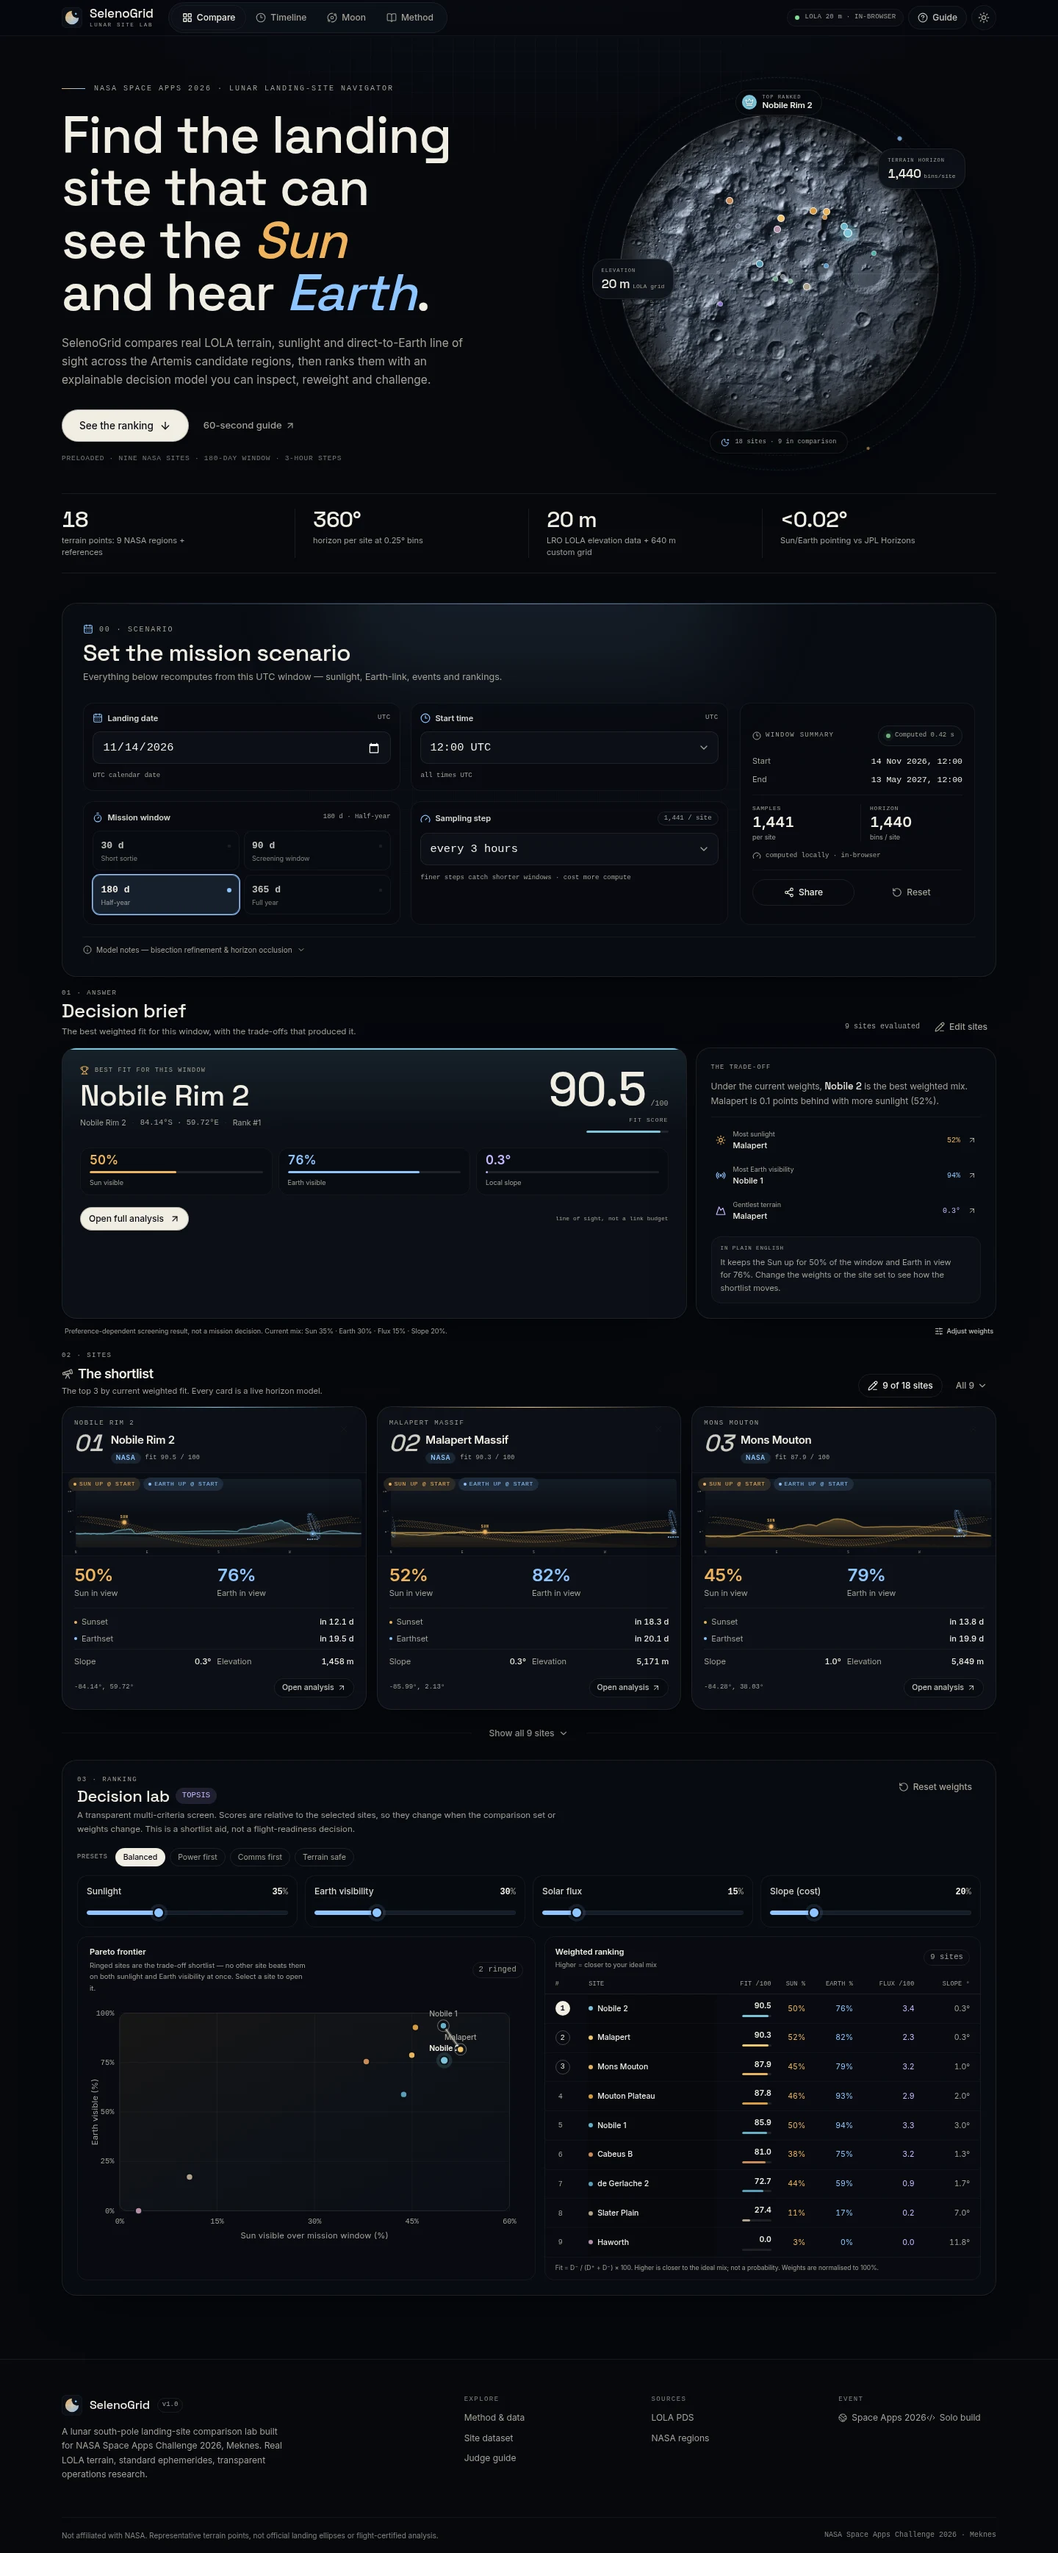
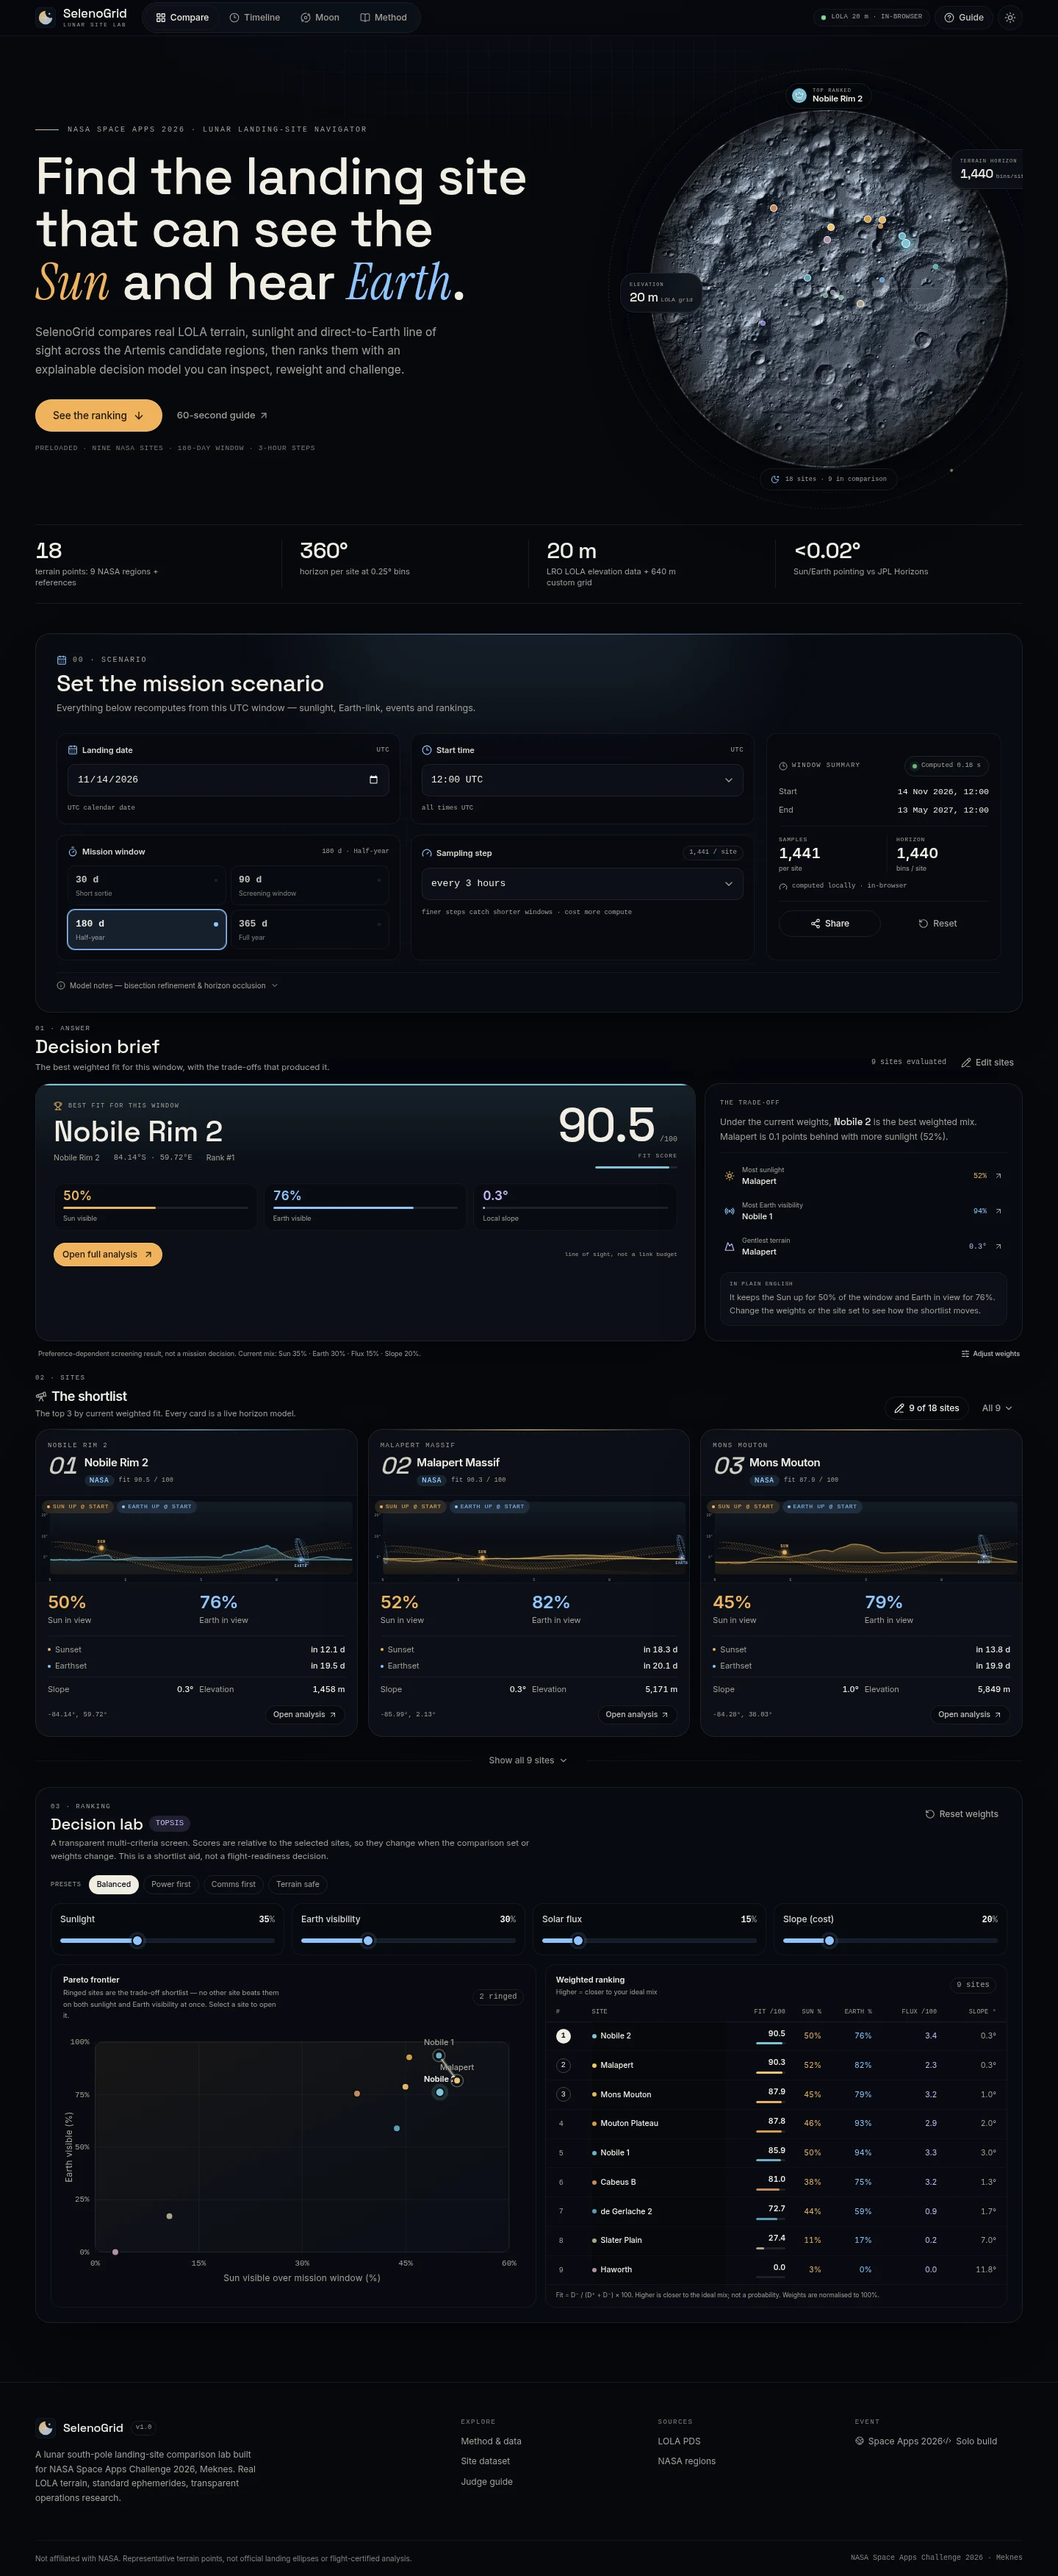
Deslop pass: full-bleed layout, serif display accents, signal-amber actions
App shell goes full width (1800px cap); Instrument Serif italic accents on display headlines; primary buttons become ownable signal amber; hero moon bleeds; alternating chapter bands; shortlist grid goes 4-col on ultrawide; refreshed screenshots.

diff --git a/src/components/landing/Chapters.tsx b/src/components/landing/Chapters.tsx
@@ -482,7 +482,7 @@ function ChapterHead({
   chips?: StatChip[]
 }) {
   return (
-    <div className="mx-auto w-full max-w-[1180px] px-4 pt-20 sm:px-6 lg:pt-28">
+    <div className="mx-auto w-full max-w-[1440px] px-4 pt-20 sm:px-8 lg:pt-28">
       <p className={cn('eyebrow flex items-center gap-2', current && 'text-foreground')}>
         <span
           aria-hidden="true"
@@ -1146,7 +1146,7 @@ export function Chapters({ sites, metricsById, ranked, active, onOpenSite }: Cha
           lede="Near the south pole the Sun circles the horizon instead of rising overhead, and Earth hangs almost still behind ridges. When the light arrives — and when the link drops — depends on the date, the mission length, and the ground underfoot."
           chips={ch1Chips}
         />
-        <div className="mx-auto grid w-full max-w-[1180px] gap-6 px-4 sm:px-6 lg:grid-cols-[0.92fr_1.08fr] lg:gap-14">
+        <div className="mx-auto grid w-full max-w-[1440px] gap-6 px-4 sm:px-8 lg:grid-cols-[0.92fr_1.08fr] lg:gap-14">
           <div className="pt-10 lg:sticky lg:top-0 lg:flex lg:min-h-screen lg:items-center lg:py-16">
             <div className="w-full">
               {focus ? (
@@ -1216,7 +1216,7 @@ export function Chapters({ sites, metricsById, ranked, active, onOpenSite }: Cha
       <GlowDivider />
 
       {/* 02 — real terrain */}
-      <section id="chapter-02" aria-label="Chapter 2: real terrain" className="relative scroll-mt-16">
+      <section id="chapter-02" aria-label="Chapter 2: real terrain" className="relative scroll-mt-16 bg-foreground/[0.018] dark:bg-white/[0.022]">
         <ChapterHead
           current={active === 'chapter-02'}
           no="02"
@@ -1225,7 +1225,7 @@ export function Chapters({ sites, metricsById, ranked, active, onOpenSite }: Cha
           lede="Every site carries a full 360° terrain horizon ray-marched on 20 m LOLA topography: one elevation angle every quarter degree, from 20 metres out to 220 kilometres."
           chips={ch2Chips}
         />
-        <div className="mx-auto grid w-full max-w-[1180px] gap-6 px-4 sm:px-6 lg:grid-cols-[0.92fr_1.08fr] lg:gap-14">
+        <div className="mx-auto grid w-full max-w-[1440px] gap-6 px-4 sm:px-8 lg:grid-cols-[0.92fr_1.08fr] lg:gap-14">
           <div className="pt-10 lg:sticky lg:top-0 lg:flex lg:min-h-screen lg:items-center lg:py-16">
             <div className="w-full">{focus ? <HorizonVisual site={focus} /> : null}</div>
           </div>
@@ -1292,7 +1292,7 @@ export function Chapters({ sites, metricsById, ranked, active, onOpenSite }: Cha
           lede="Topocentric Sun and Earth positions from a Meeus/IAU astronomy engine, tested against JPL Horizons — then masked by the real horizon, sample by sample, for your whole mission window."
           chips={ch3Chips}
         />
-        <div className="mx-auto grid w-full max-w-[1180px] gap-6 px-4 sm:px-6 lg:grid-cols-[0.92fr_1.08fr] lg:gap-14">
+        <div className="mx-auto grid w-full max-w-[1440px] gap-6 px-4 sm:px-8 lg:grid-cols-[0.92fr_1.08fr] lg:gap-14">
           <div className="pt-10 lg:sticky lg:top-0 lg:flex lg:min-h-screen lg:items-center lg:py-16">
             <div className="w-full">
               {focus ? (
@@ -1340,7 +1340,7 @@ export function Chapters({ sites, metricsById, ranked, active, onOpenSite }: Cha
       <GlowDivider />
 
       {/* 04 — transparent ranking */}
-      <section id="chapter-04" aria-label="Chapter 4: transparent ranking" className="relative scroll-mt-16">
+      <section id="chapter-04" aria-label="Chapter 4: transparent ranking" className="relative scroll-mt-16 bg-foreground/[0.018] dark:bg-white/[0.022]">
         <ChapterHead
           current={active === 'chapter-04'}
           no="04"
@@ -1349,7 +1349,7 @@ export function Chapters({ sites, metricsById, ranked, active, onOpenSite }: Cha
           lede="Four criteria, one published method, every weight exposed. Nothing is hidden in a model file — the whole decision layer fits on one screen and recomputes live."
           chips={ch4Chips}
         />
-        <div className="mx-auto grid w-full max-w-[1180px] gap-6 px-4 sm:px-6 lg:grid-cols-[0.92fr_1.08fr] lg:gap-14">
+        <div className="mx-auto grid w-full max-w-[1440px] gap-6 px-4 sm:px-8 lg:grid-cols-[0.92fr_1.08fr] lg:gap-14">
           <div className="pt-10 lg:sticky lg:top-0 lg:flex lg:min-h-screen lg:items-center lg:py-16">
             <div className="w-full">
               <RankingVisual ranked={ranked} metricsById={metricsById} frontier={frontier} onOpenSite={onOpenSite} />

diff --git a/src/components/landing/LandingView.tsx b/src/components/landing/LandingView.tsx
@@ -334,7 +334,7 @@ export function LandingView({
           <Starfield speed={reduced ? 0 : undefined} />
         </div>
 
-        <div className="relative mx-auto grid w-full max-w-[1180px] flex-1 items-center gap-12 px-4 pt-24 pb-8 sm:px-6 lg:grid-cols-[1.04fr_0.96fr] lg:gap-8 lg:pt-28">
+        <div className="relative mx-auto grid w-full max-w-[1440px] flex-1 items-center gap-12 px-4 pt-24 pb-8 sm:px-8 lg:grid-cols-[1.04fr_0.96fr] lg:gap-8 lg:pt-28">
           <div className="min-w-0">
             <Reveal>
               <div className="flex items-center gap-3">
@@ -510,9 +510,9 @@ export function LandingView({
         )}
 
         <div className="relative border-t border-border/70">
-          <div className="mx-auto grid w-full max-w-[1180px] grid-cols-2 gap-y-6 px-4 py-6 sm:grid-cols-4 sm:divide-x sm:divide-border sm:px-6">
+          <div className="mx-auto grid w-full max-w-[1440px] grid-cols-2 gap-y-6 px-4 py-6 sm:grid-cols-4 sm:divide-x sm:divide-border sm:px-8">
             {stats.map((s) => (
-              <div key={s.label} className="min-w-0 px-0 sm:px-6 sm:first:pl-0 sm:last:pr-0">
+              <div key={s.label} className="min-w-0 px-0 sm:px-8 sm:first:pl-0 sm:last:pr-0">
                 <StatValue target={s.target} format={s.format} />
                 <div className="mt-1.5 max-w-[210px] text-[11px] leading-snug text-muted-foreground">
                   {s.label}
@@ -534,7 +534,7 @@ export function LandingView({
 
       {/* 3 — ScrubMission film moment (owns its own UI) */}
       <section id="film" aria-label="Scrub the mission" className="relative scroll-mt-16 border-t border-border/60">
-        <div className="mx-auto w-full max-w-[1180px] px-4 py-20 sm:px-6 sm:py-28">
+        <div className="mx-auto w-full max-w-[1440px] px-4 py-20 sm:px-8 sm:py-28">
           <h2 className="sr-only">Scrub through the mission window</h2>
           <ScrubMission
             sites={sites}
@@ -547,7 +547,7 @@ export function LandingView({
 
       {/* 4 — Proof strip */}
       <section id="proof" className="relative scroll-mt-16 border-t border-border/60">
-        <div className="mx-auto w-full max-w-[1180px] px-4 py-20 sm:px-6 sm:py-28">
+        <div className="mx-auto w-full max-w-[1440px] px-4 py-20 sm:px-8 sm:py-28">
           <Reveal>
             <p className="eyebrow">Validation</p>
             <h2 className="mt-3 max-w-[20ch] font-display text-[34px] leading-[1.02] tracking-[-0.02em] text-balance sm:text-[52px]">
@@ -705,7 +705,7 @@ export function LandingView({
       {/* 5 — Final CTA */}
       <section id="cta" className="relative scroll-mt-16 overflow-x-clip border-t border-border/60">
         <AuroraField variant="cta" />
-        <div className="relative mx-auto w-full max-w-[1180px] px-4 py-28 text-center sm:px-6 sm:py-36">
+        <div className="relative mx-auto w-full max-w-[1440px] px-4 py-28 text-center sm:px-8 sm:py-36">
           <Reveal>
             <p className="eyebrow">The mission lab</p>
             <h2 className="mx-auto mt-4 max-w-[16ch] font-display text-[clamp(42px,7.5vw,92px)] leading-[1.0] tracking-[-0.02em] text-balance">

diff --git a/src/components/landing/ScrubMission.tsx b/src/components/landing/ScrubMission.tsx
@@ -300,7 +300,7 @@ export function ScrubMission({ sites, metricsById, ranked, onOpenSite }: ScrubMi
         aria-label="Mission film standby"
         className="relative px-5 py-24 sm:px-8"
       >
-        <div className="mx-auto max-w-6xl">
+        <div className="mx-auto max-w-[1400px]">
           <p className="eyebrow">The window · scroll to scrub time</p>
           <h2 className="lp-display mt-4 text-3xl text-balance sm:text-4xl">
             Mission film standby
@@ -429,7 +429,7 @@ export function ScrubMission({ sites, metricsById, ranked, onOpenSite }: ScrubMi
         <div className="lp-vignette" aria-hidden="true" />
         <div className="lp-grain" aria-hidden="true" />
 
-        <div className="relative mx-auto w-full max-w-6xl px-5 sm:px-8">
+        <div className="relative mx-auto w-full max-w-[1400px] px-5 sm:px-8">
           <div className="flex items-center gap-3">
             <span
               aria-hidden="true"
@@ -697,7 +697,7 @@ export function ScrubMission({ sites, metricsById, ranked, onOpenSite }: ScrubMi
 
         {/* Mission scrub rail with milestone ticks + day labels */}
         <div className="absolute inset-x-0 bottom-0 pb-[max(1rem,env(safe-area-inset-bottom))]">
-          <div className="mx-auto w-full max-w-6xl px-5 sm:px-8">
+          <div className="mx-auto w-full max-w-[1400px] px-5 sm:px-8">
             <div className="relative">
               <div
                 className="lp-scrub-track"

diff --git a/src/components/ui/button.tsx b/src/components/ui/button.tsx
@@ -9,9 +9,10 @@ const buttonVariants = cva(
   {
     variants: {
       variant: {
-        // Luminous in both themes: hairline inner highlight + soft lift on hover.
+        // Signal amber: the one ownable action color. Dark-on-amber in dark mode,
+        // white-on-amber in light mode for contrast.
         default:
-          'bg-primary text-primary-foreground shadow-sm ring-1 ring-inset ring-white/10 hover:brightness-[1.06] active:scale-[0.985] dark:ring-black/25 dark:hover:brightness-[0.96]',
+          'bg-sun text-white shadow-sm ring-1 ring-inset ring-black/10 hover:brightness-[1.07] active:scale-[0.985] dark:text-[#1c1305] dark:ring-white/10 dark:hover:brightness-[1.05]',
         secondary:
           'border border-border bg-secondary text-secondary-foreground hover:bg-muted active:scale-[0.985]',
         outline:

diff --git a/src/index.css b/src/index.css
@@ -166,6 +166,7 @@
   --font-display:
     'Space Grotesk', 'Inter Variable', Inter, -apple-system, BlinkMacSystemFont, 'Segoe UI',
     sans-serif;
+  --font-serif: 'Instrument Serif', Georgia, 'Times New Roman', serif;
   --font-mono:
     ui-monospace, 'SF Mono', SFMono-Regular, 'Cascadia Code', Menlo, Monaco, Consolas,
     'Liberation Mono', monospace;
@@ -186,6 +187,16 @@
 @layer base {
   * {
     border-color: var(--border);
+  }
+
+  /* Editorial serif accents: display italic words set in Instrument Serif. */
+  .font-display em,
+  h1 em,
+  h2 em {
+    font-family: var(--font-serif);
+    font-style: italic;
+    font-weight: 400;
+    letter-spacing: 0;
   }
 
   html {

diff --git a/src/App.tsx b/src/App.tsx
@@ -293,7 +293,7 @@ export default function App() {
           onGuide={() => setGuideOpen(true)}
         />
 
-        <main id="main-content" tabIndex={-1} className="mx-auto w-full max-w-[1320px] flex-1 scroll-mt-20 px-4 outline-none sm:px-6">
+        <main id="main-content" tabIndex={-1} className="w-full flex-1 scroll-mt-20 px-4 outline-none sm:px-8 xl:px-12 2xl:mx-auto 2xl:max-w-[1800px]">
           {view === 'compare' && (
             <Hero
               siteCount={allSites.length || 18}

diff --git a/src/components/Footer.tsx b/src/components/Footer.tsx
@@ -7,7 +7,7 @@ export function Footer({ onMethod }: { onMethod: () => void }) {
 
   return (
     <footer className="mt-14 border-t border-border">
-      <div className="mx-auto w-full max-w-[1320px] px-4 sm:px-6">
+      <div className="w-full px-4 sm:px-8 xl:px-12 2xl:mx-auto 2xl:max-w-[1800px]">
         <div className="grid gap-10 py-10 sm:py-12 md:grid-cols-[1.3fr_repeat(3,0.55fr)]">
           <div className="max-w-xs">
             <div className="flex items-center gap-2.5">

diff --git a/src/components/CompareView.tsx b/src/components/CompareView.tsx
@@ -192,7 +192,7 @@ export function CompareView({
                 )}
               </div>
             </div>
-            <div className="grid grid-cols-1 gap-3 sm:grid-cols-2 sm:gap-3.5 xl:grid-cols-3">
+            <div className="grid grid-cols-1 gap-3 sm:grid-cols-2 sm:gap-3.5 xl:grid-cols-3 2xl:grid-cols-4">
               {visibleCards.map((site, index) => {
                 const metrics = metricsById.get(site.id)
                 if (!metrics) return null

diff --git a/src/components/Hero.tsx b/src/components/Hero.tsx
@@ -92,7 +92,7 @@ export function Hero({
         </div>
 
         <Reveal delay={140} className="relative">
-          <div className="relative mx-auto w-full max-w-[330px] sm:max-w-[420px] lg:max-w-[500px]">
+          <div className="relative mx-auto w-full max-w-[330px] sm:max-w-[440px] lg:mr-[-1rem] lg:max-w-[560px]">
             <HeroMoon
               sites={sites}
               selectedIds={selectedIds}

diff --git a/src/components/Header.tsx b/src/components/Header.tsx
@@ -50,7 +50,7 @@ export function Header({
           : 'border-border/60',
       )}
     >
-      <div className="mx-auto flex h-12 max-w-[1320px] items-center gap-3 px-4 sm:px-6">
+      <div className="flex h-12 w-full items-center gap-3 px-4 sm:px-8 xl:px-12 2xl:mx-auto 2xl:max-w-[1800px]">
         <button
           type="button"
           onClick={() => onView('landing')}
